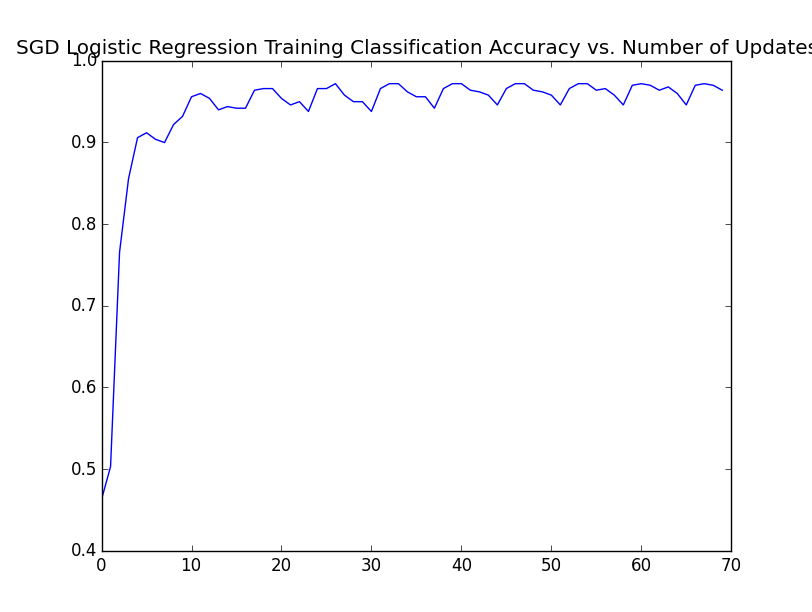
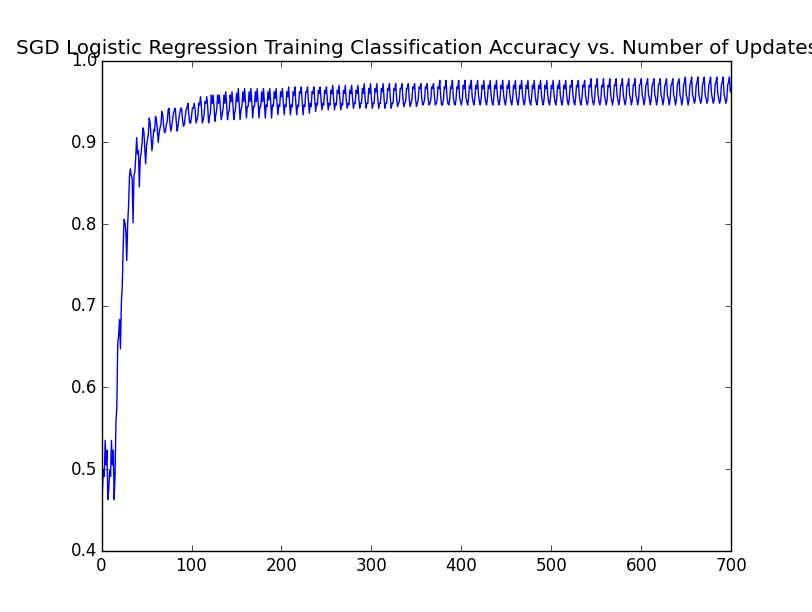
Finished 1.1.1

diff --git a/part1_1_1.py b/part1_1_1.py
@@ -3,14 +3,14 @@ import numpy as np
 import matplotlib.pyplot as plt
 
 def cross_entropy(M, w, b, l, x, y):
-    loss = tf.reduce_sum(tf.nn.sigmoid_cross_entropy_with_logits(tf.reduce_sum(tf.reduce_sum(w * x, 1), 1) + b, tf.transpose(y)), 1) / M
+    loss = tf.reduce_sum(tf.nn.sigmoid_cross_entropy_with_logits(tf.expand_dims(tf.reduce_sum(tf.reduce_sum(x * w, -1), -1), -1) + b, y), 0) / M
     weight_decay = l / 2 * tf.reduce_sum(tf.reduce_sum(tf.square(w), 0), 0)
 
     return loss + weight_decay
 
 def accuracy(M, w, b, x, y):
     # Predict 1 if value is > 0.5, 0 otherwise
-    prediction = tf.to_float(tf.greater(tf.reduce_sum(tf.reduce_sum(w * x, 1), 1) + b, 0.5))
+    prediction = tf.to_float(tf.greater(tf.reduce_sum(tf.reduce_sum(x * w, 1), 1) + b, 0.5))
 
     # 1 - abs(prediction - y)
     # Correct prediction => 1, incorrect prediction => 0
@@ -35,8 +35,6 @@ if __name__ == '__main__':
         validData, validTarget = Data[3500:3600], Target[3500:3600]
         testData, testTarget = Data[3600:], Target[3600:]
 
-        print(trainTarget.shape)
-
         dataInput = tf.placeholder(tf.float32)
         targetInput = tf.placeholder(tf.float32)
 
@@ -44,7 +42,7 @@ if __name__ == '__main__':
         M = trainData.shape[0]
         N = trainData.shape[1]
 
-        w = tf.Variable(tf.zeros([1, N]), dtype=tf.float32)
+        w = tf.Variable(tf.zeros([N, N]), dtype=tf.float32)
         b = tf.Variable(0, dtype=tf.float32)
         learning_rate = 0.01
         weight_decay = 0.01
@@ -63,8 +61,8 @@ if __name__ == '__main__':
         trainingAccuracies = []
         testingLosses = []
         testingAccuracies = []
-        for j in range(10):
-            for i in range(0, trainData.shape[0], batch_size):
+        for j in range(100):
+            for i in range(0, M, batch_size):
                 # Perform the update
                 _, err, accuracy = sess.run([optimizer, error, acc], feed_dict={
                             dataInput: trainData[i:i+batch_size-1],
@@ -78,21 +76,18 @@ if __name__ == '__main__':
                          })
                 testingLosses.append(err)
                 testingAccuracies.append(accuracy)
-        print(w.eval(sess))
-        print(b.eval(sess))
+        #print(w.eval(sess))
+        #print(b.eval(sess))
         plt.figure(1)
         plt.plot(trainingLosses)
         plt.title('SGD Logistic Regression Training Loss vs. Number of Updates')
-        plt.show()
         plt.figure(2)
         plt.plot(testingLosses)
         plt.title('SGD Logistic Regression Testing Loss vs. Number of Updates')
-        plt.show()
         plt.figure(3)
         plt.plot(trainingAccuracies)
         plt.title('SGD Logistic Regression Training Classification Accuracy vs. Number of Updates')
-        plt.show()
         plt.figure(4)
-        plt.plot(trainingLosses)
+        plt.plot(testingAccuracies)
         plt.title('SGD Logistic Regression Testing Classification Accuracy vs. Number of Updates')
         plt.show()
